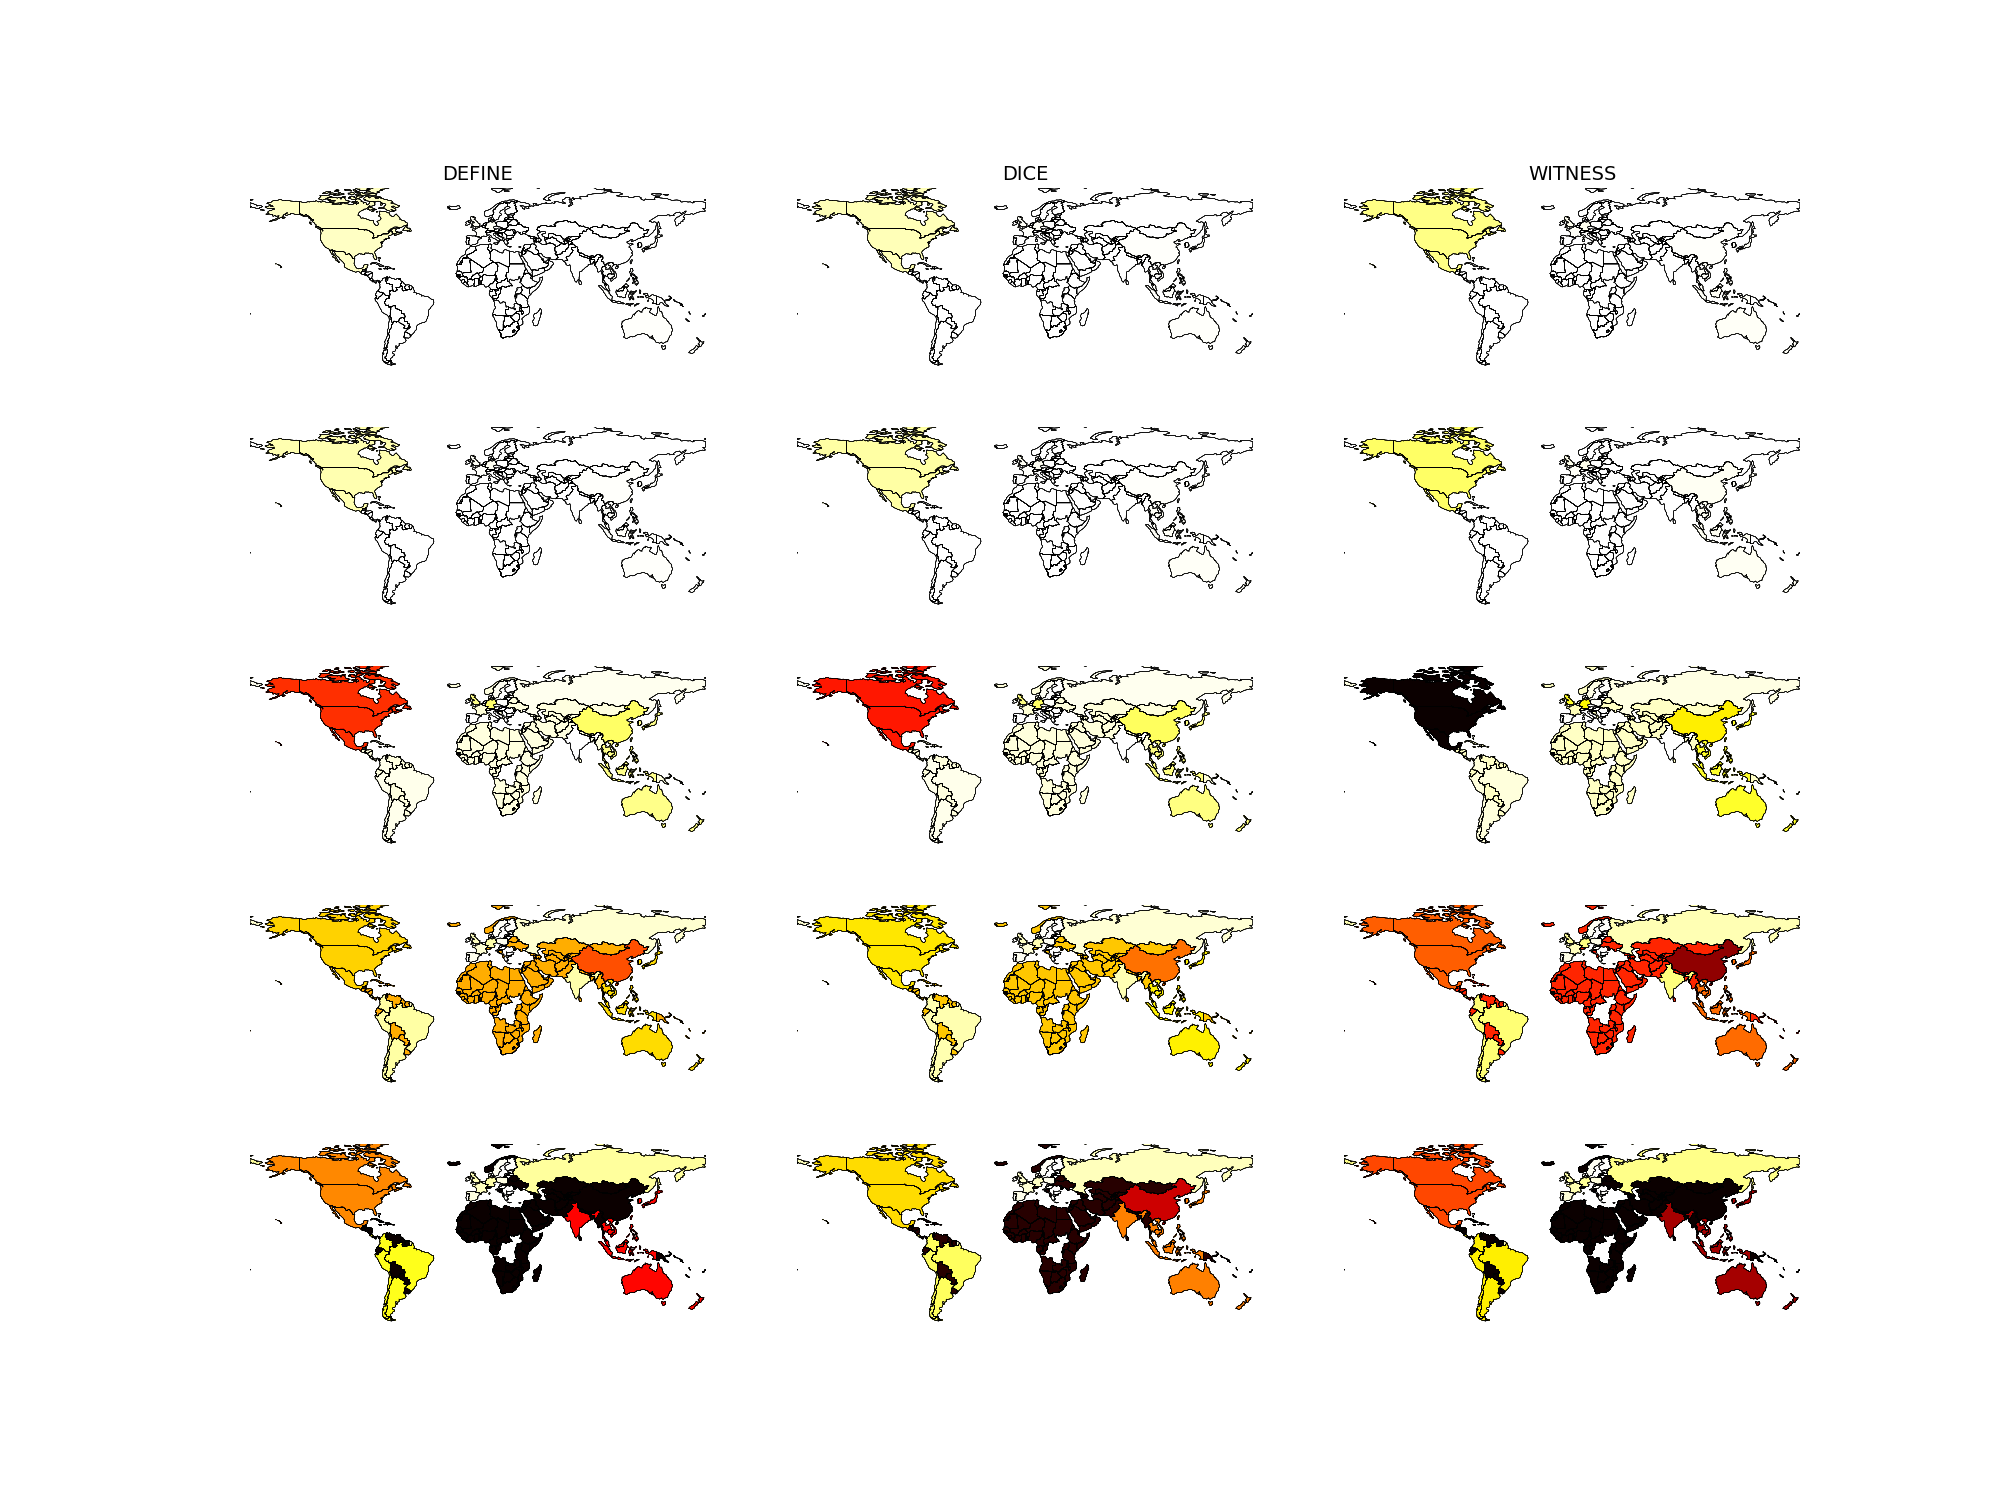
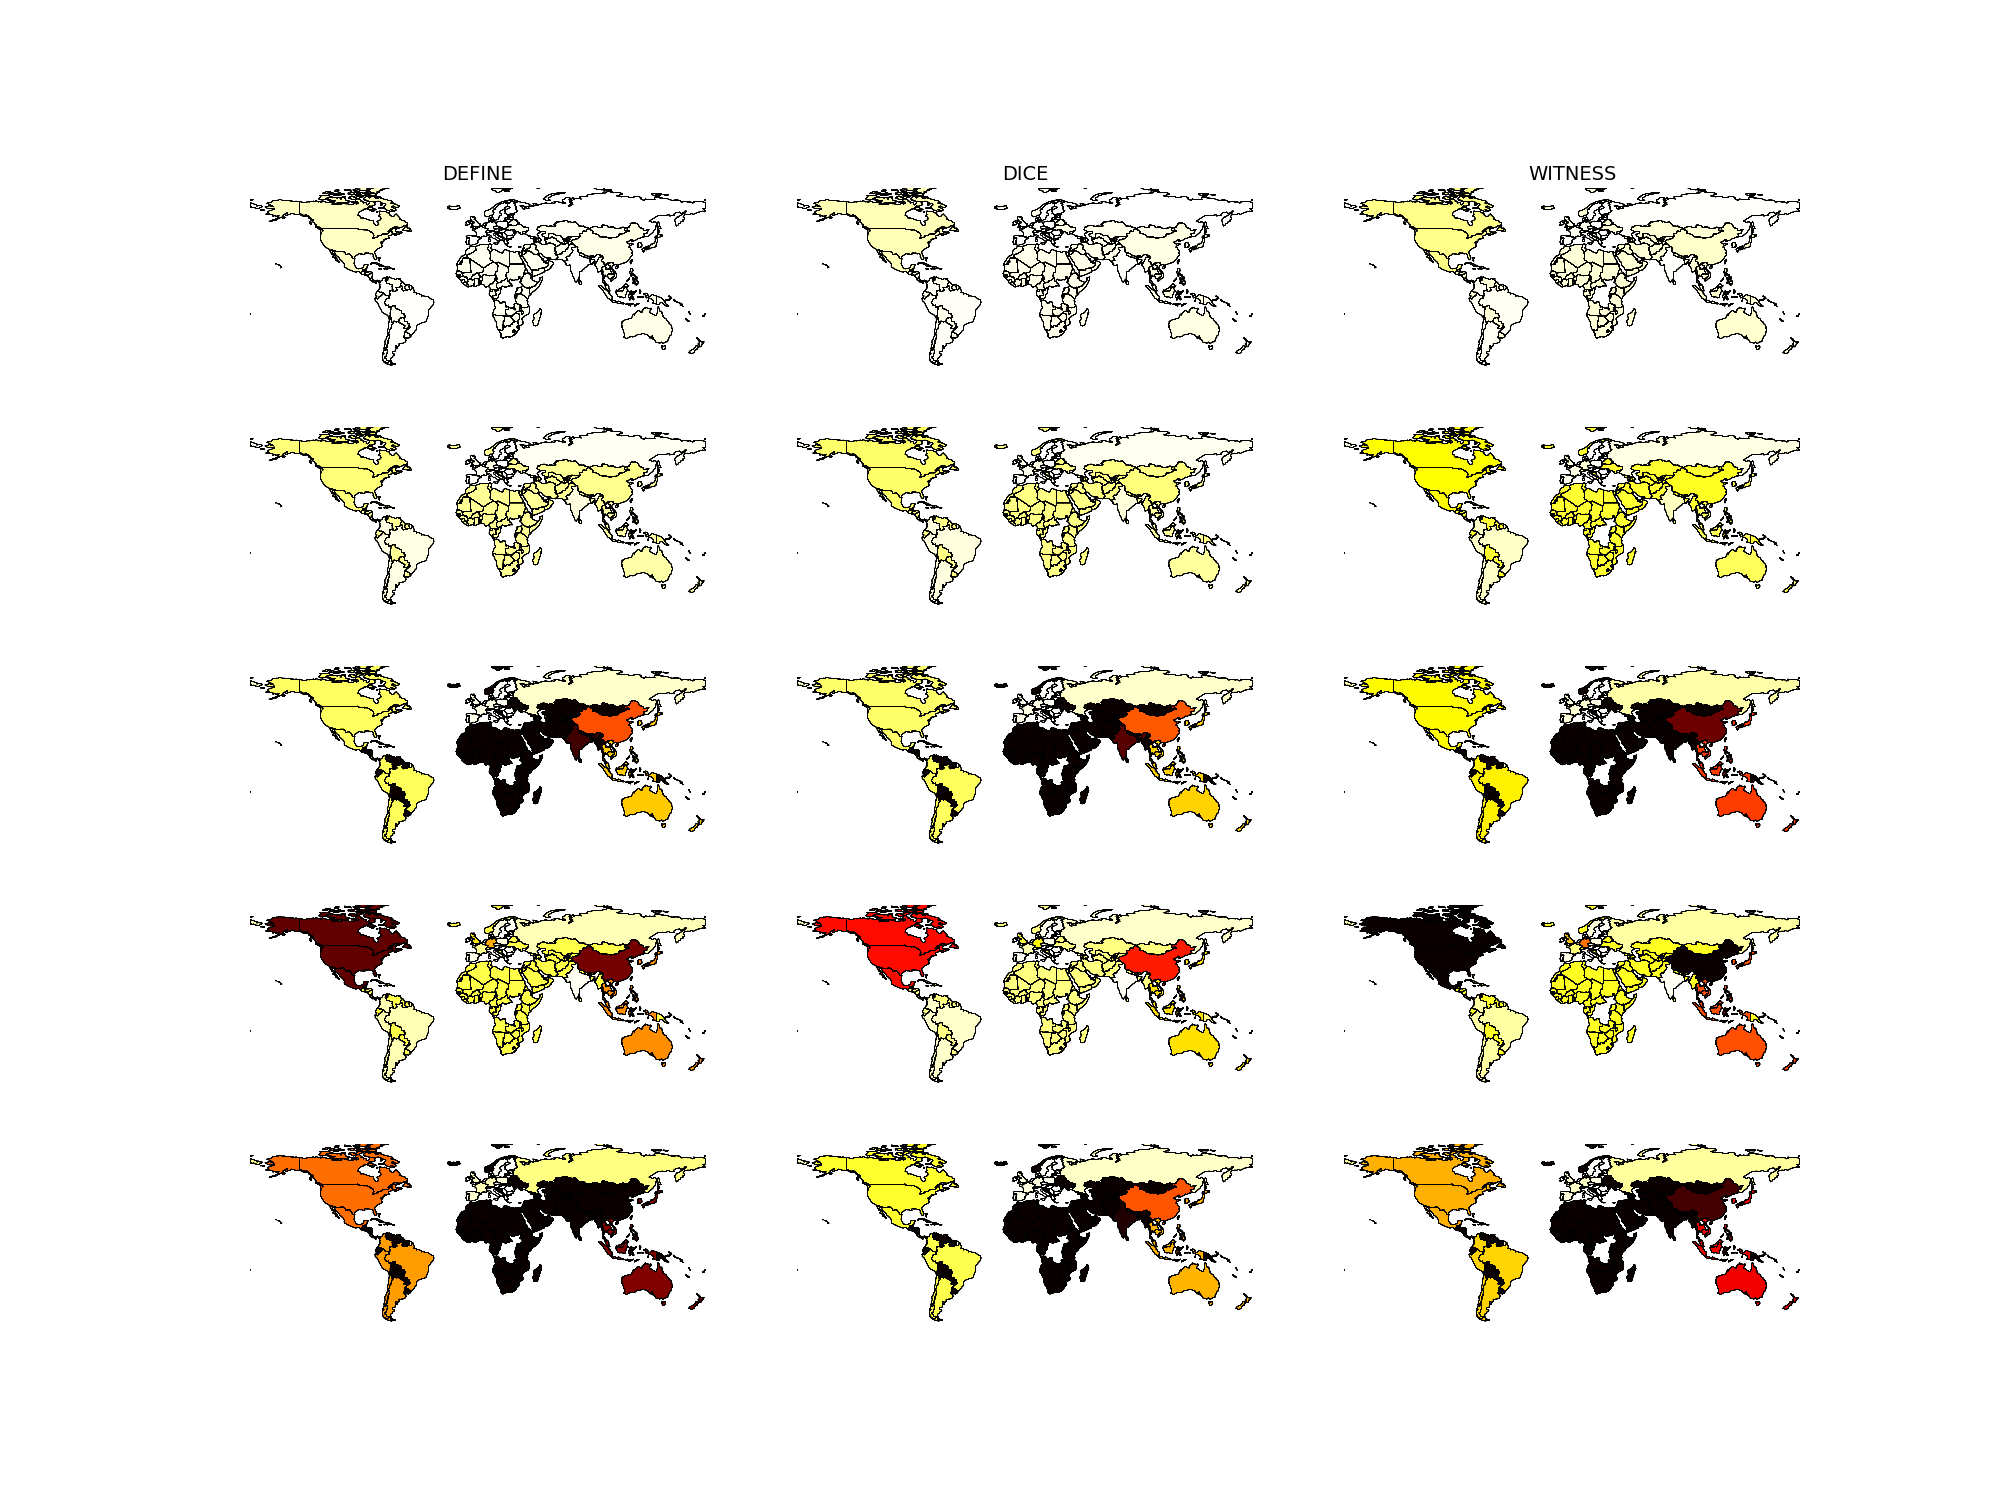
Changed tables

diff --git a/results/regression_1.tex b/results/regression_1.tex
@@ -1,29 +1,29 @@
-\begin{table}[!htbp] \centering
-\begin{tabular}{@{\extracolsep{5pt}}lccccc}
+\begin{table}\resizebox{\textwidth}{!}{[!htbp] \centering
+\begin{tabular}{@{\extracolsep{5pt}}lcccc}
 \\[-1.8ex]\hline
 \hline \\[-1.8ex]
-& \multicolumn{5}{c}{\textit{Dependent variable: log\_damage}} \
-\cr \cline{2-6}
-\\[-1.8ex] & \multicolumn{1}{c}{Temp} & \multicolumn{1}{c}{Simple} & \multicolumn{1}{c}{Equation} & \multicolumn{1}{c}{Country} & \multicolumn{1}{c}{Double}  \\
-\\[-1.8ex] & (1) & (2) & (3) & (4) & (5) \\
+& \multicolumn{4}{c}{\textit{Dependent variable: log\_damage}} \
+\cr \cline{2-5}
+\\[-1.8ex] & \multicolumn{1}{c}{Temp} & \multicolumn{1}{c}{Equation} & \multicolumn{1}{c}{Country} & \multicolumn{1}{c}{Double}  \\
+\\[-1.8ex] & (1) & (2) & (3) & (4) \\
 \hline \\[-1.8ex]
- Temperature Change & 2.840$^{***}$ & 2.837$^{***}$ & 2.837$^{***}$ & 2.864$^{***}$ & 2.864$^{***}$ \\
-& (0.009) & (0.008) & (0.007) & (0.002) & (0.002) \\[2em]
- log\_coef & & 1.000$^{***}$ & 1.000$^{***}$ & 1.003$^{***}$ & 1.003$^{***}$ \\
-& & (0.004) & (0.004) & (0.001) & (0.001) \\[2em]
- DICE form damage function & & & -0.196$^{***}$ & & -0.196$^{***}$ \\
-& & & (0.010) & & (0.003) \\[2em]
- WITNESS form damage function & & & 0.350$^{***}$ & & 0.350$^{***}$ \\
-& & & (0.010) & & (0.003) \\[2em]
- Regional dummy & No & No & No & Yes & Yes \\
+ Temperature Change & 2.840$^{***}$ & 2.837$^{***}$ & 2.864$^{***}$ & 2.864$^{***}$ \\
+& (0.009) & (0.007) & (0.002) & (0.002) \\[2em]
+ log\_coef & & 1.000$^{***}$ & 1.003$^{***}$ & 1.003$^{***}$ \\
+& & (0.004) & (0.001) & (0.001) \\[2em]
+ DICE form damage function & & -0.196$^{***}$ & & -0.196$^{***}$ \\
+& & (0.010) & & (0.003) \\[2em]
+ WITNESS form damage function & & 0.350$^{***}$ & & 0.350$^{***}$ \\
+& & (0.010) & & (0.003) \\[2em]
+ Regional dummy & No & No & Yes & Yes \\
 \hline \\[-1.8ex]
- Observations & 231378 & 231378 & 231378 & 231378 & 231378 \\
- $R^2$ & 0.315 & 0.485 & 0.492 & 0.955 & 0.962 \\
- Adjusted $R^2$ & 0.315 & 0.485 & 0.492 & 0.955 & 0.962 \\
- Residual Std. Error & 2.209 (df=231376) & 1.916 (df=231375) & 1.903 (df=231373) & 0.566 (df=231353) & 0.519 (df=231351) \\
- F Statistic & 106536.752$^{***}$ (df=1; 231376) & 108825.888$^{***}$ (df=2; 231375) & 55991.215$^{***}$ (df=4; 231373) & 204959.303$^{***}$ (df=24; 231353) & 226667.979$^{***}$ (df=26; 231351) \\
+ Observations & 231378 & 231378 & 231378 & 231378 \\
+ $R^2$ & 0.315 & 0.492 & 0.955 & 0.962 \\
+ Adjusted $R^2$ & 0.315 & 0.492 & 0.955 & 0.962 \\
+ Residual Std. Error & 2.209 (df=231376) & 1.903 (df=231373) & 0.566 (df=231353) & 0.519 (df=231351) \\
+ F Statistic & 106536.752$^{***}$ (df=1; 231376) & 55991.215$^{***}$ (df=4; 231373) & 204959.303$^{***}$ (df=24; 231353) & 226667.979$^{***}$ (df=26; 231351) \\
 \hline
 \hline \\[-1.8ex]
-\textit{Note:} & \multicolumn{5}{r}{$^{*}$p$<$0.1; $^{**}$p$<$0.05; $^{***}$p$<$0.01} \\
+\textit{Note:} & \multicolumn{4}{r}{$^{*}$p$<$0.1; $^{**}$p$<$0.05; $^{***}$p$<$0.01} \\
 \end{tabular}
-\end{table}
+}\end{table}

diff --git a/results/regression_global.tex b/results/regression_global.tex
@@ -1,4 +1,4 @@
-\begin{table}[!htbp] \centering
+\begin{table}\resizebox{\textwidth}{!}{[!htbp] \centering
 \begin{tabular}{@{\extracolsep{5pt}}lccc}
 \\[-1.8ex]\hline
 \hline \\[-1.8ex]
@@ -27,4 +27,4 @@
 \hline \\[-1.8ex]
 \textit{Note:} & \multicolumn{3}{r}{$^{*}$p$<$0.1; $^{**}$p$<$0.05; $^{***}$p$<$0.01} \\
 \end{tabular}
-\end{table}
+}\end{table}
